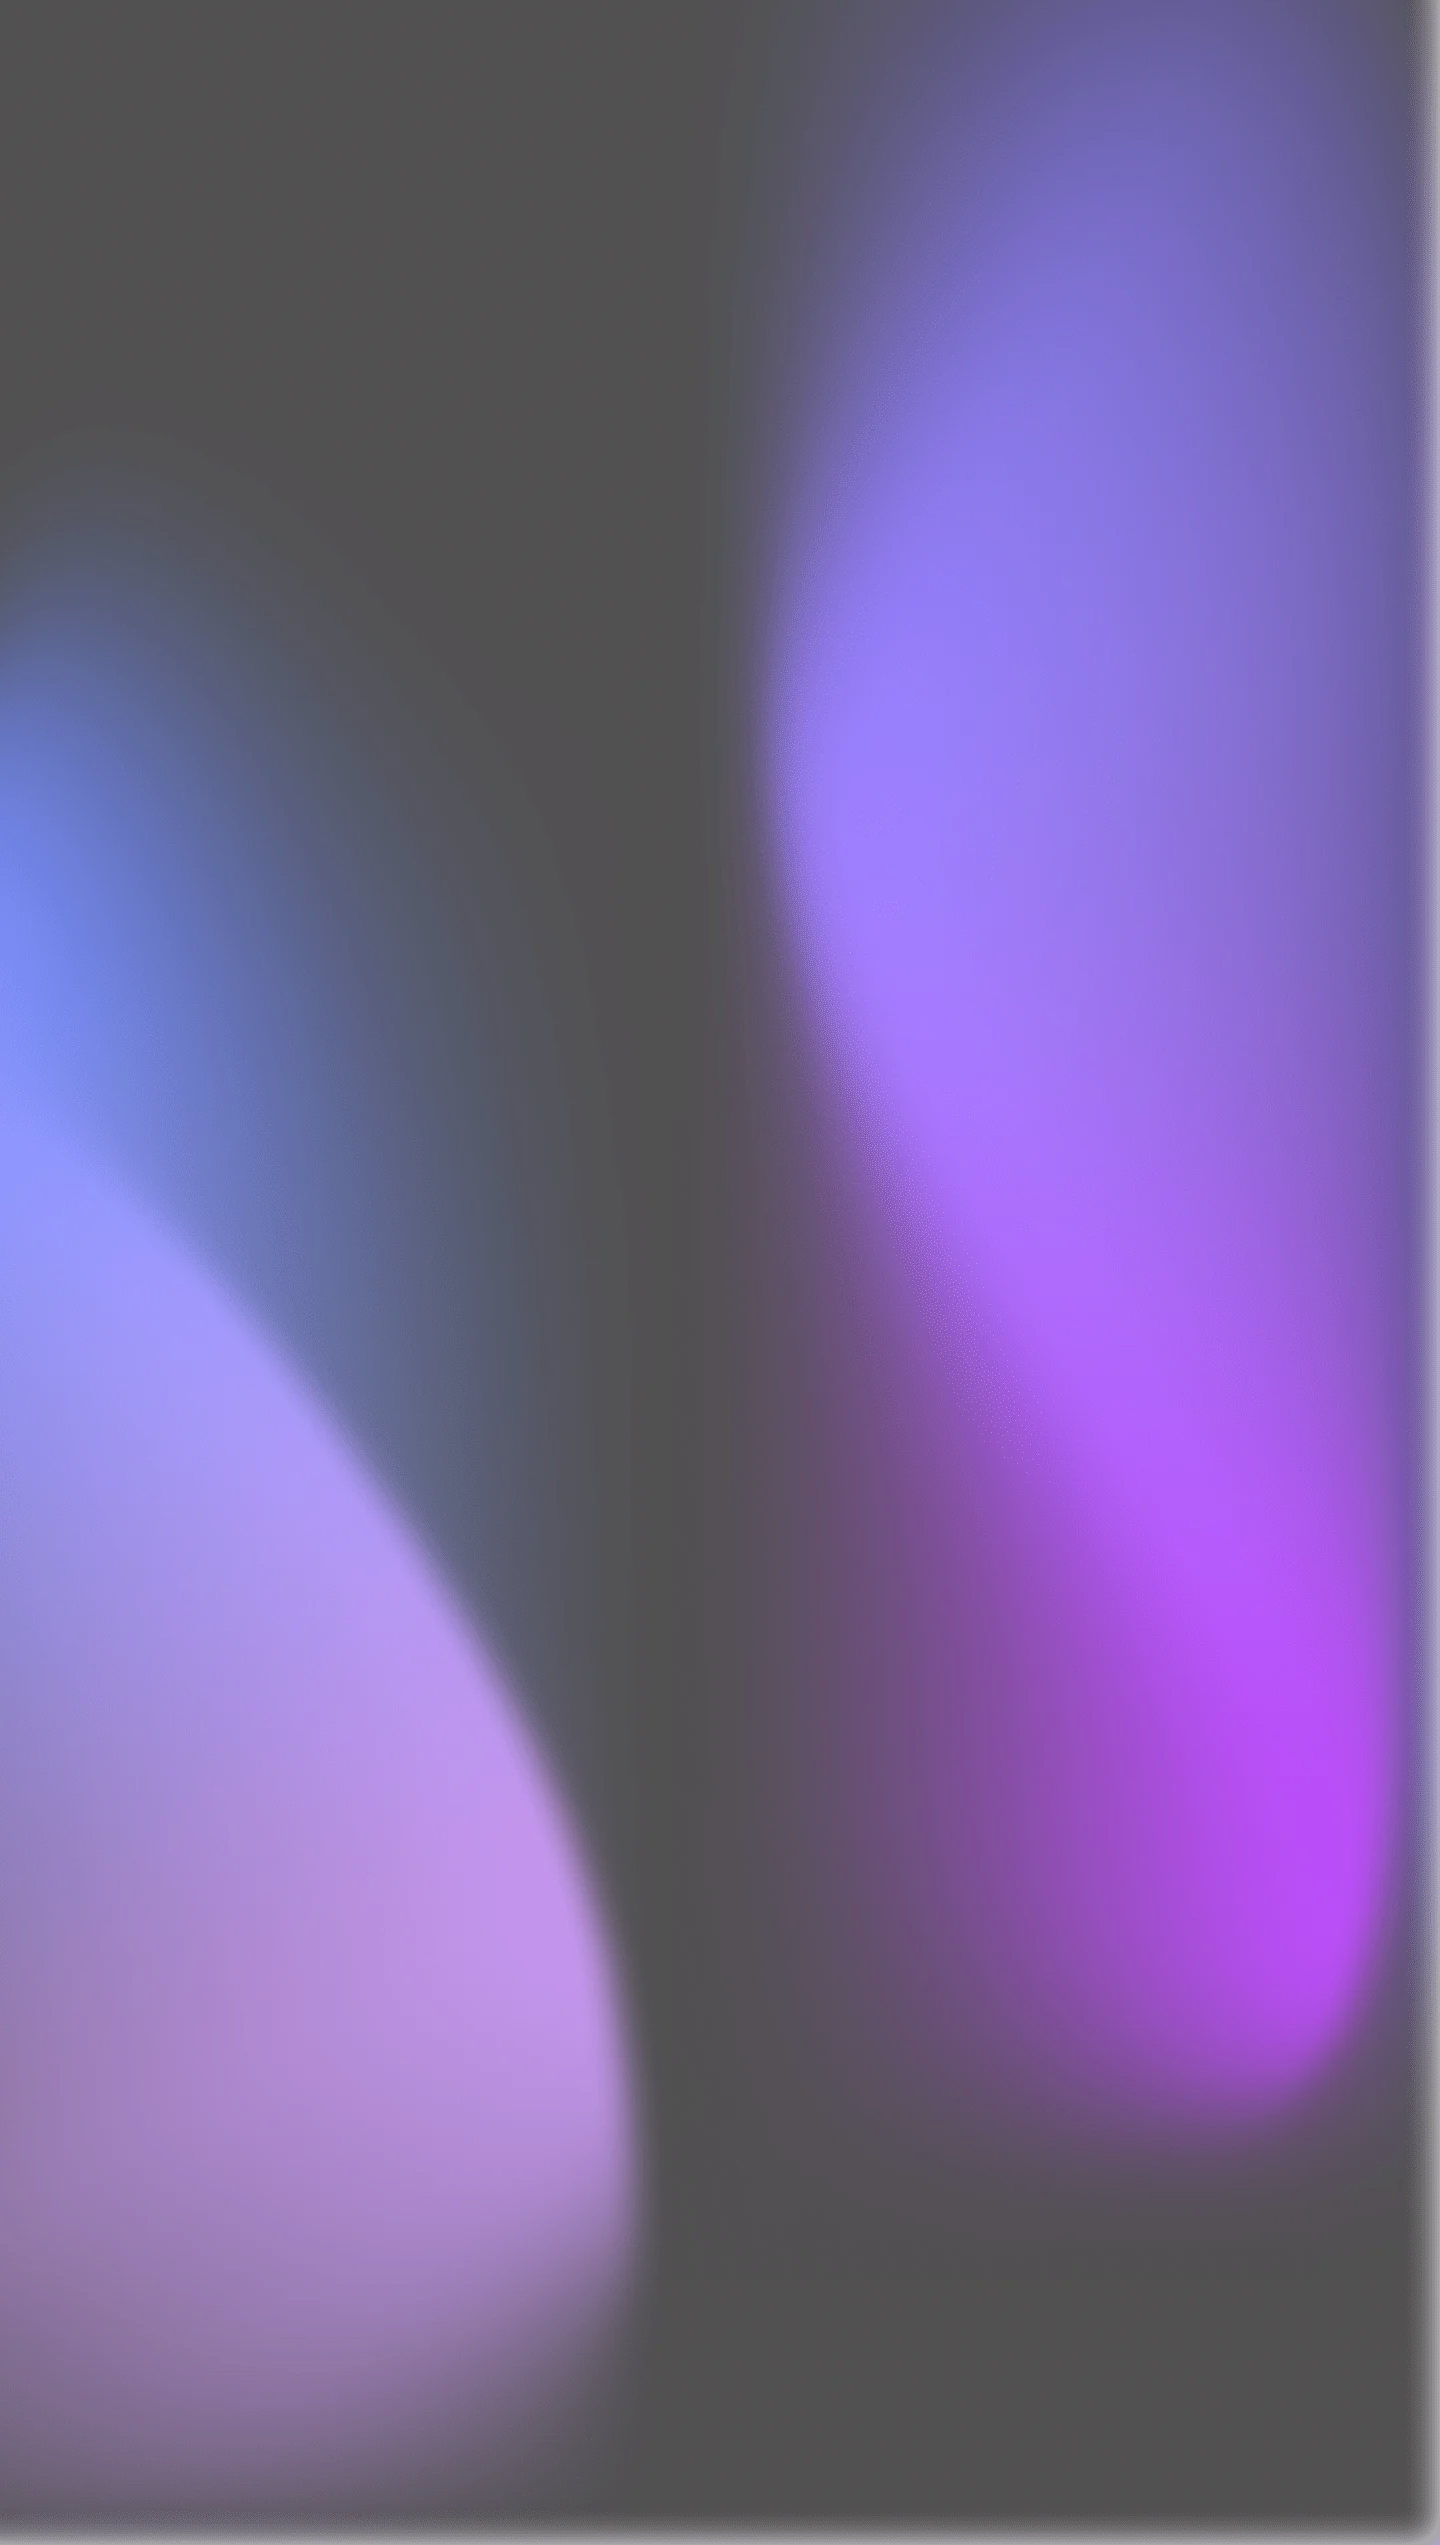
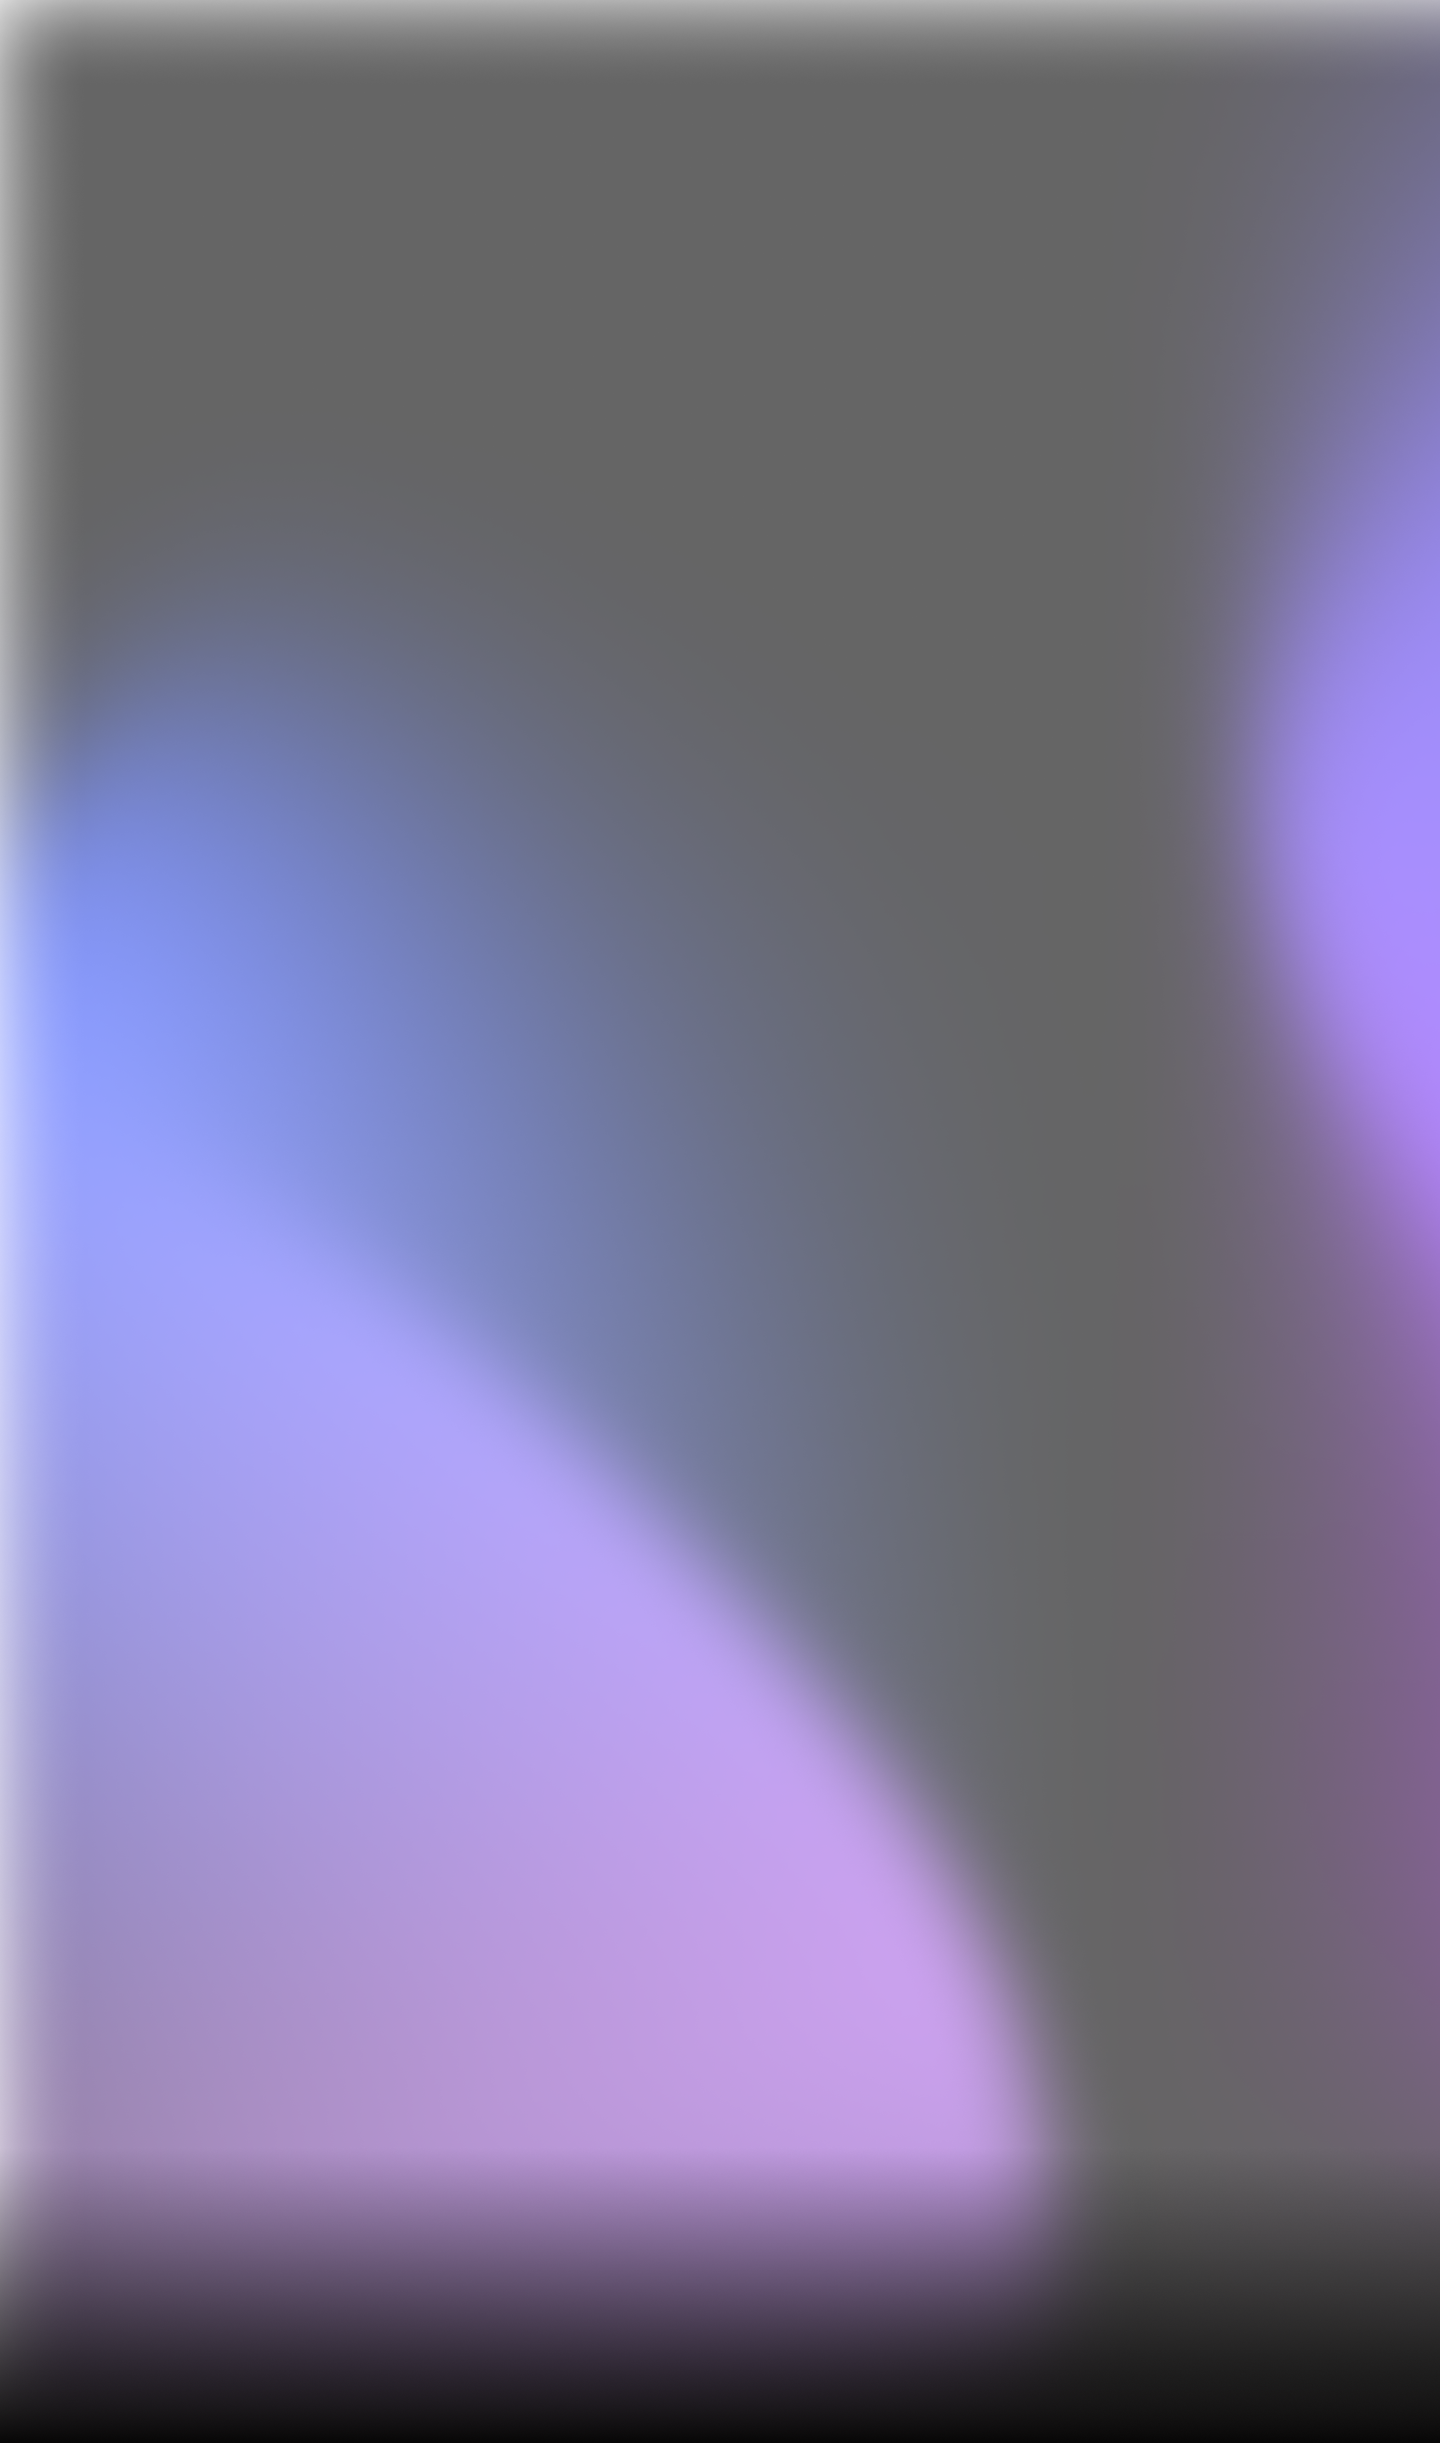
feat: исправить фон для Промо, фон для componentsContainer,заменить шрифт формы в блоке Промо

diff --git a/src/components/Promo/styles.module.scss b/src/components/Promo/styles.module.scss
@@ -1,7 +1,7 @@
 .promo {
 	background-image: url('../../../public/images/promo/promo-bg-1440.webp');
 	background-repeat: no-repeat;
-	background-position: center;
+	background-position: bottom;
 	color: var(--color-text);
 	max-width: var(--max-width);
 
@@ -88,6 +88,7 @@
 
 @media screen and (max-width: 1280px) {
 	.promo {
+		background-image: url('../../../public/images/promo/promo-bg-1280.webp');
 		&__container {
 			width: var(--width-1280-1024);
 			padding: 126px 1px 118px 0;
@@ -110,6 +111,8 @@
 
 @media screen and (max-width: 1050px) {
 	.promo {
+		background-position: center;
+		background-size: cover;
 		&__container {
 			width: 89%;
 		}

diff --git a/src/components/Promo/PromoForm/styles.module.scss b/src/components/Promo/PromoForm/styles.module.scss
@@ -11,8 +11,10 @@
 
 	&__title {
 		margin-bottom: 10px;
-		line-height: 22px;
+		line-height: 24px;
 		font-size: var(--text-base);
+		font-family: var(--involve-font);
+		font-weight: 600;
 	}
 
 	&__message {
@@ -20,7 +22,8 @@
 		margin-top: 12px;
 		color: rgba(24, 57, 108, 0.6);
 		font-family: var(--involve-font);
-		font-size: 17px;
+		font-size: 16px;
+		font-weight: 500;
 		line-height: var(--line-height-big);
 		letter-spacing: var(--font-description-letter);
 		padding-right: 1px;
@@ -110,6 +113,10 @@
 	.promo-form {
 		width: 58%;
 		margin-top: 50px;
+
+		&__title {
+			letter-spacing: -0.48px;
+		}
 	}
 }
 

diff --git a/src/components/ComponentsContainer/styles.module.scss b/src/components/ComponentsContainer/styles.module.scss
@@ -1,7 +1,7 @@
 .section {
 	width: 100%;
-	background-image: url('/images/componentsContainer/components-container-bg.webp');
-	background-size: cover;
+	background-image: url('../../../public/images/componentsContainer/components-container-bg.webp');
+	background-size: contain;
 	background-repeat: no-repeat;
 	background-position: center;
 }
